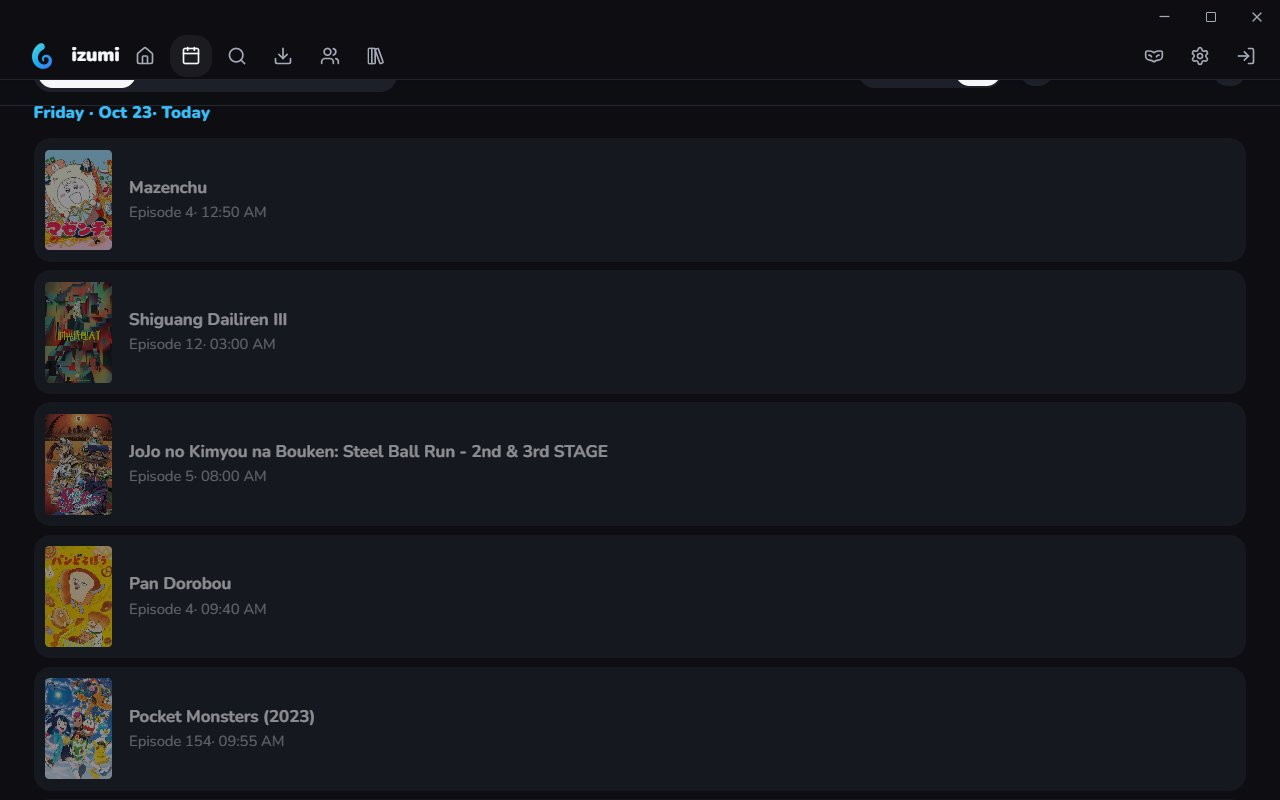
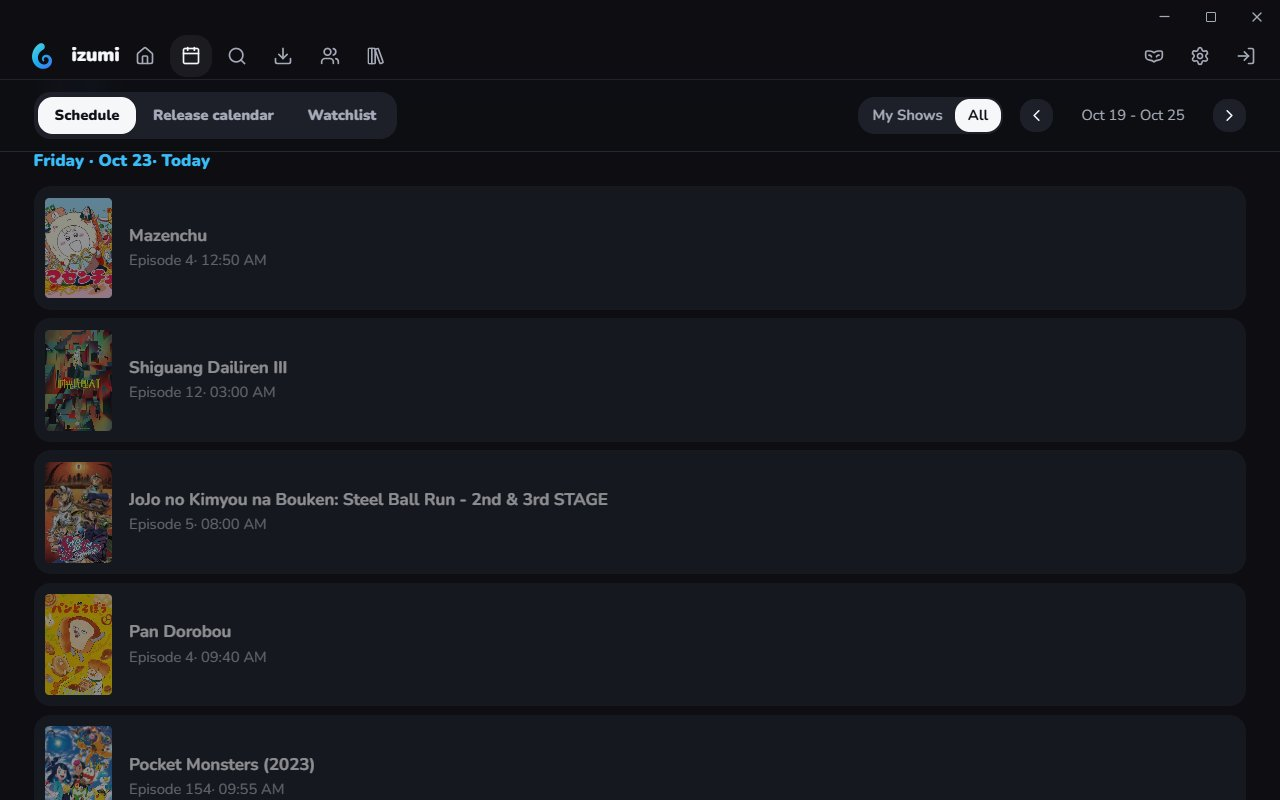
fix: Schedule shots show the pinned header below a theme's top bar
The renderer can re-shoot single screens (--screens).

Changed region(s): [[0.0, 0.0938, 0.4688, 1.0], [0.6562, 0.0938, 0.8125, 0.1875], [0.8438, 0.125, 0.9688, 0.1562]]

diff --git a/README.md b/README.md
@@ -66,7 +66,8 @@ npm run previews                 # all listings; --only izumi.kindling,izumi.cor
 `npm run previews -- --live` writes `previews/<id>/<platform>-<screen>.jpg` and the entry's
 `screenshots` and `preview`; run `npm run build` afterwards. Without `--live` it renders over a
 fixture catalogue (offline smoke tests only; never publish those images). `--series <id>` picks
-the series page; `--hero-slide <n>` starts Home on a later featured slide.
+the series page; `--hero-slide <n>` starts Home on a later featured slide; `--screens schedule,...`
+re-shoots only those screens and keeps the rest.
 Set `IZUMI_PREVIEW_CHROMIUM` to use a specific Chromium binary.
 
 ## Scope
